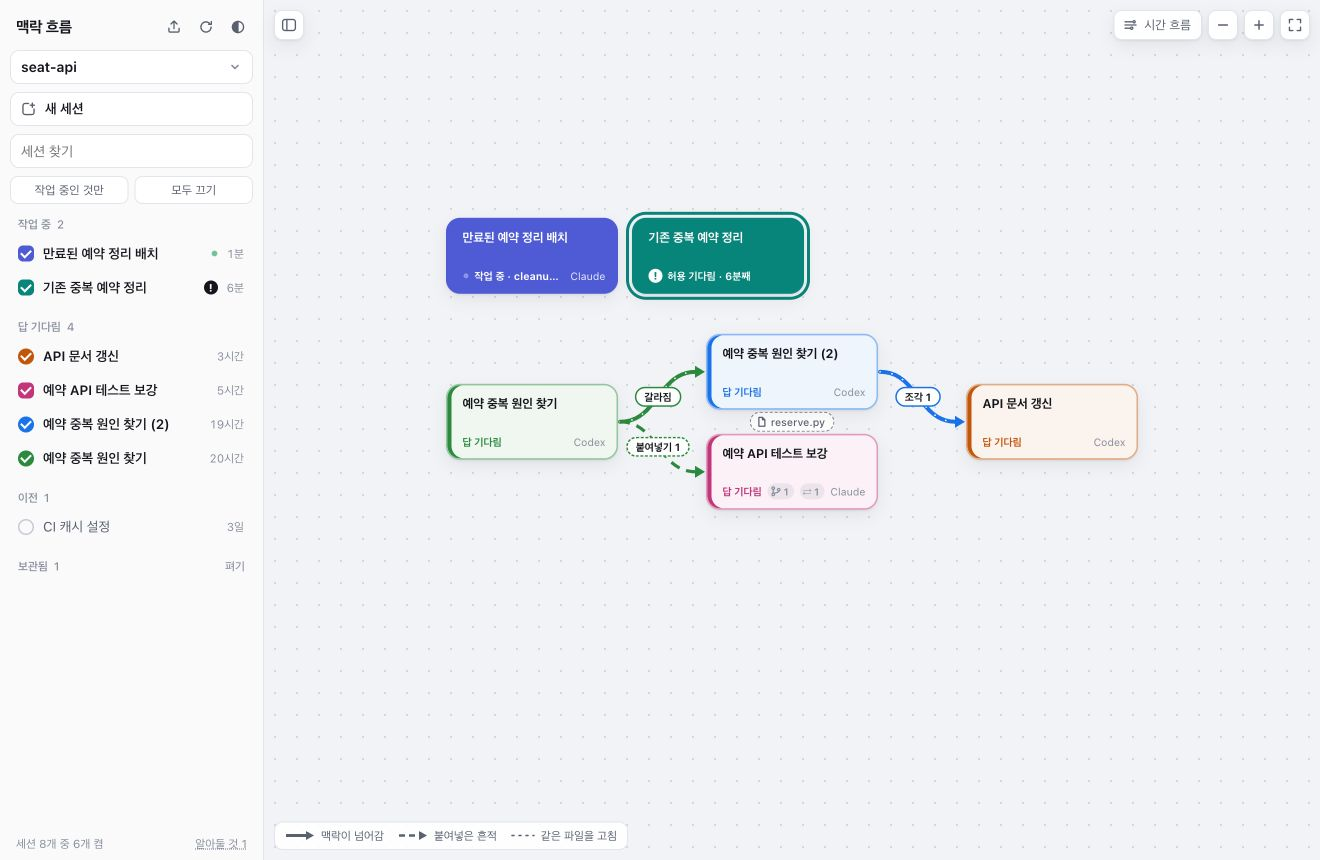
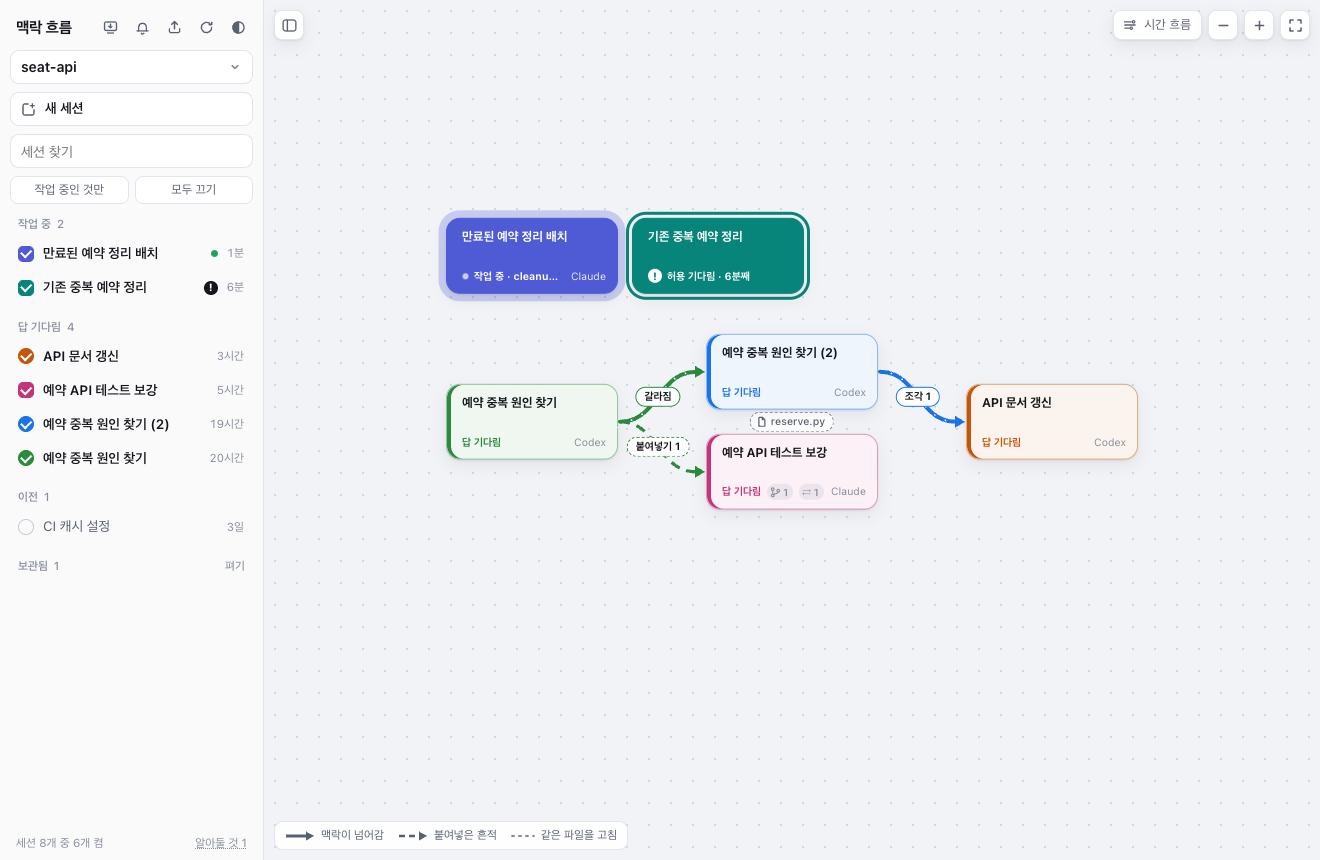
What changed since the repository was first shared is told in one place (#28)
docs/CHANGES.md says how to bring a copy up to date, what can newly be done
on the screen and where (seven things), which records are now read
otherwise than before (five), and what to know when updating. The README
points to it and names the changes in a few lines.

The README's two pictures are taken again from the screen as it is now,
with the bell and the install button, and are PNG files as their names say.
A third shows the talk pane, with a request being said again.

diff --git a/docs/CHANGES.md b/docs/CHANGES.md
@@ -1,0 +1,51 @@
+# 처음 공유한 뒤 바뀐 것
+
+2026-11-25에 저장소를 처음 공유한 뒤 합쳐진 것을 정리했습니다. 화면에서 새로 할 수 있는 것, 기록을 읽는 법이 바뀐 것, 알아 둘 것의 순서입니다. 자세한 사용법은 각 줄의 문서에 있습니다.
+
+## 갱신하는 법
+
+```sh
+git pull
+npm install
+npm run build
+npm run service -- restart   # 서비스로 띄워 두었을 때. 아니면 npm run serve를 다시 돌립니다
+```
+
+데모는 `npm run demo`를 다시 돌리면 새 기록으로 시작합니다. 플러그인은 다시 설치하지 않아도 됩니다.
+
+## 화면에서 새로 할 수 있는 것
+
+| 무엇 | 어디서 | 자세히 | PR |
+|---|---|---|---|
+| 다른 창에서 나눈 대화가 1~2초 안에 화면에 따라옵니다. 세션이 끝나거나 나를 기다리기 시작하면 카드와 탭 제목, 시스템 알림으로 알려 줍니다 | 왼쪽 위 종 단추 | [USAGE.md](USAGE.md) 2절 '알림과 빠른 반영' | [#8](https://github.com/jeff8287/context-flow/pull/8), [#10](https://github.com/jeff8287/context-flow/pull/10) |
+| 말에 그림과 파일을 붙이고, 그 말만 다른 모델로 보냅니다 | 입력칸의 클립 단추와 '모델' | [USAGE.md](USAGE.md) 3절, [DEMO.md](DEMO.md) 11절 | [#11](https://github.com/jeff8287/context-flow/pull/11) |
+| 보낸 요청을 고쳐 다시 보냅니다. 원래 세션은 그대로 두고 그 요청 앞에서 새 세션이 갈라져 나옵니다. 마지막 답은 '다시 받기'로 한 번 더 받습니다 | 요청 말풍선에 마우스를 올리면 뜨는 '고쳐 보내기' | [DEMO.md](DEMO.md) 9절 | [#12](https://github.com/jeff8287/context-flow/pull/12) |
+| 같은 자리에서 갈라진 갈래를 ‹ 1/3 ›으로 넘겨 봅니다 | 고쳐 보낸 요청 아래 | [DEMO.md](DEMO.md) 9절 | [#17](https://github.com/jeff8287/context-flow/pull/17) |
+| 지난 대화에 붙어 갔던 그림이 보이고, 고쳐 보낼 때 그림과 파일이 입력칸에 다시 붙습니다 | 대화의 요청 말풍선 | [USAGE.md](USAGE.md) 3절 | [#16](https://github.com/jeff8287/context-flow/pull/16) |
+| 화면을 Dock의 앱으로 설치합니다. 서버가 꺼져 있으면 그렇다고 알려 주고, 다시 뜨면 저절로 돌아옵니다 | 왼쪽 위 설치 단추 | [USAGE.md](USAGE.md) 5절 'Dock의 앱으로 쓰기' | [#13](https://github.com/jeff8287/context-flow/pull/13) |
+| 요청을 고치거나 대화를 되감기 전에 오간 말을, 대화가 갈린 자리에서 펼쳐 봅니다 | 대화의 점선 줄 '고치기 전의 대화', '되감기 전의 대화' | [DEMO.md](DEMO.md) 10절 | [#26](https://github.com/jeff8287/context-flow/pull/26) |
+
+## 기록을 읽는 법이 바뀐 것
+
+같은 기록인데 전에는 틀리게 읽히던 것들입니다. 갱신하면 지도와 대화가 아래처럼 달라져 보일 수 있습니다.
+
+| 기록 | 전 | 지금 | PR |
+|---|---|---|---|
+| Codex 앱에서 메시지를 고쳐 다시 보낸 스레드 | 고친 뒤의 턴만 읽혀서 앞선 대화가 사라져 보였습니다 | 기록이 여러 파일에 걸쳐 있는 것을 거슬러 읽어 앞선 대화가 모두 나옵니다 | [#21](https://github.com/jeff8287/context-flow/pull/21) |
+| 갈라진 세션 | 어느 세션에서 갈라졌는지만 알았습니다 | 어느 요청 앞에서 갈라졌는지도 압니다. 역추적은 그 요청 앞에 나온 조각만 갈라진 세션으로 따라갑니다 | [#17](https://github.com/jeff8287/context-flow/pull/17) |
+| 갈라진 세션에 붙여넣은 글 | 원래 세션이 갈라진 뒤에 한 말을 붙여넣어도 물려받은 것으로 쳐서 선이 없었습니다 | 갈라진 자리 뒤의 말을 붙여넣은 것은 붙여넣기 선으로 잡힙니다 | [#22](https://github.com/jeff8287/context-flow/pull/22) |
+| Claude Code에서 되감은(`/rewind`) 세션 | 되감아 버린 요청과 답까지 대화로 읽혔습니다 | Claude가 지금 기억하는 대화만 읽힙니다 | [#24](https://github.com/jeff8287/context-flow/pull/24) |
+| Claude Code가 대화를 요약한(`/compact`, 자동 요약) 세션 | 요약 글이 사용자의 요청으로 읽혔고, 그 세션에서 고쳐 보내기가 시작하지 못했습니다 | 요약은 요청이 아닙니다. 요약 뒤의 요청은 고쳐 보낼 수 있고, 요약 앞의 요청은 안 되는 까닭을 알려 줍니다 | [#24](https://github.com/jeff8287/context-flow/pull/24) |
+
+## 알아 둘 것
+
+- **담아 둔 조각을 다시 담아야 할 수 있습니다.** 앱에서 메시지를 고친 적이 있는 Codex 스레드는 항목 번호가 달라졌습니다. 그런 스레드에서 전에 담아 둔 조각을 보낼 때 "붙인 조각을 기록에서 찾지 못했습니다"가 나오면 그 글을 다시 골라 담으면 됩니다.
+- **요청 수가 줄어 보일 수 있습니다.** 되감은 Claude Code 세션은 버려진 턴이 대화에서 빠지고 접힌 줄로 옮겨 갑니다.
+- **접힌 말은 보기만 합니다.** 에이전트가 더는 기억하지 못하는 말이라서 조각으로 담거나 고쳐 보낼 수 없고, 지도의 선과 역추적에 들어가지 않습니다. 내보낸 파일에도 들어가지 않습니다.
+- **Codex 데스크톱 앱이 열어 둔 스레드**에는 여전히 이 화면에서 바로 보낼 수 없습니다(걸어 두기를 씁니다). 그런 스레드에서 세션을 갈라 내는 것, 곧 고쳐 보내기는 됩니다.
+- 서비스가 떠 있는 채로 `npm run service -- install`을 다시 돌리면 실패하던 것을 고쳤습니다([#7](https://github.com/jeff8287/context-flow/pull/7)).
+
+## 개발
+
+- PR마다 타입 검사, 시험, 빌드가 돕니다([#7](https://github.com/jeff8287/context-flow/pull/7)). 시험은 56개이고 모두 지어낸 기록으로 돕니다.
+- 실제 클라이언트로 확인한 것과 하지 못한 것은 [WHY.md의 6절](WHY.md#6-한계와-확인하지-못한-것)에 날짜와 함께 적어 두었습니다.

diff --git a/README.md b/README.md
@@ -21,11 +21,26 @@
 - **찾기.** 작업 중인 세션, 허락을 기다리는 세션, 답을 받고 멈춘 세션이 한눈에 갈립니다. 타일을 누르면 그 대화가 열립니다. 다른 창에서 나눈 대화는 1~2초 안에 따라오고, 세션이 끝나거나 나를 기다리기 시작하면 알려 줍니다.
 - **넘기기.** 대화에서 글을 끌어 골라 담고, 다른 세션에 보내는 말에 붙입니다. 받는 세션이 다른 창에서 작업 중이면 걸어 두었다가 그 세션의 다음 말에 실어 보냅니다.
 - **거슬러 가기.** 조각 하나를 고르면 그 글이 처음 나온 세션까지 거슬러 간 길과 그 뒤 퍼져 나간 길이 나옵니다. 프로젝트를 넘어서도 따라갑니다.
-- **이어 쓰기.** 지도 옆 대화창에서 그 세션의 대화를 이어 갑니다. 답하는 것은 그 세션의 Codex나 Claude Code 그대로이고, 승인 요청은 화면의 카드로 받습니다. 그림과 파일을 붙이고 모델을 바꿔 보낼 수 있습니다. 보낸 요청을 고쳐 다시 보내면 원래 세션은 그대로 두고 그 요청 앞에서 새 세션이 갈라져 나옵니다.
+- **이어 쓰기.** 지도 옆 대화창에서 그 세션의 대화를 이어 갑니다. 답하는 것은 그 세션의 Codex나 Claude Code 그대로이고, 승인 요청은 화면의 카드로 받습니다. 그림과 파일을 붙이고 모델을 바꿔 보낼 수 있습니다. 보낸 요청을 고쳐 다시 보내면 원래 세션은 그대로 두고 그 요청 앞에서 새 세션이 갈라져 나옵니다. 클라이언트에서 요청을 고치거나 대화를 되감아 버린 말도 대화가 갈린 자리에 접혀 있어 펼쳐 볼 수 있습니다.
 
 ![조각이 지나온 길](docs/img/11-trace.png)
 
 위 그림은 화면 프로젝트의 한 세션이 받은 조각을 거슬러 간 모습입니다. 그 글은 API 프로젝트의 다른 세션에서 처음 나왔고, 중간에 한 번은 사람이 손으로 붙여넣었고(점선) 한 번은 이 도구로 보냈습니다(실선).
+
+![요청을 고쳐 다시 보내기](docs/img/26-redo.png)
+
+위 그림은 대화창에서 보낸 요청을 고치는 모습입니다. 그 요청의 글과 함께 갔던 조각이 입력칸으로 돌아오고, 보내면 그 요청 앞까지의 대화만 물려받은 새 세션이 갈라져 나옵니다.
+
+## 처음 공유한 뒤 달라진 것
+
+2026-11-25에 처음 공유한 뒤 아래가 더해졌습니다. 줄마다의 사용법과 갱신하는 법은 [docs/CHANGES.md](docs/CHANGES.md)에 있습니다.
+
+- 다른 창에서 나눈 대화가 1~2초 안에 따라오고, 세션이 끝나거나 나를 기다리면 알려 줍니다.
+- 말에 그림과 파일을 붙이고 모델을 바꿔 보냅니다. 지난 대화의 그림도 보입니다.
+- 보낸 요청을 고쳐 다시 보내고, 같은 자리에서 갈라진 갈래를 넘겨 봅니다.
+- 요청을 고치거나 대화를 되감기 전에 오간 말을 접힌 줄에서 펼쳐 봅니다.
+- 화면을 Dock의 앱으로 설치합니다.
+- Codex 앱에서 메시지를 고친 스레드, Claude Code에서 되감거나 요약한 세션을 맞게 읽습니다.
 
 ## 3분 데모
 
@@ -38,7 +53,7 @@ npm install
 npm run demo
 ```
 
-터미널에 뜨는 주소 `http://127.0.0.1:8802/?project=seat-api`를 브라우저로 엽니다. 좌석 예약 서비스의 중복 예약 버그를 여러 세션이 나눠 고치는 이야기가 들어 있습니다. [docs/DEMO.md](docs/DEMO.md)를 따라 하면 지도 읽기, 조각 넘기기, 역추적, 승인 카드까지 15분쯤에 직접 해 볼 수 있습니다.
+터미널에 뜨는 주소 `http://127.0.0.1:8802/?project=seat-api`를 브라우저로 엽니다. 좌석 예약 서비스의 중복 예약 버그를 여러 세션이 나눠 고치는 이야기가 들어 있습니다. [docs/DEMO.md](docs/DEMO.md)를 따라 하면 지도 읽기, 조각 넘기기, 역추적, 승인 카드, 요청 고쳐 보내기까지 15분쯤에 직접 해 볼 수 있습니다.
 
 ## 내 기록으로 쓰기
 
@@ -60,6 +75,7 @@ npm run serve          # http://127.0.0.1:8801, 이 컴퓨터에서만 열립니
 | [docs/DESIGN.md](docs/DESIGN.md) | 설계 결정과 택하지 않은 안 |
 | [docs/ARCHITECTURE.md](docs/ARCHITECTURE.md) | 코드 구조, 데이터의 꼴, 로컬 API |
 | [docs/EXPORT.md](docs/EXPORT.md) | 실험용 내보내기 |
+| [docs/CHANGES.md](docs/CHANGES.md) | 처음 공유한 뒤 바뀐 것과 갱신하는 법 |
 | [plugin/README.md](plugin/README.md) | 걸어 둔 조각을 다음 말에 싣는 훅 |
 
 ## 지금 상태
